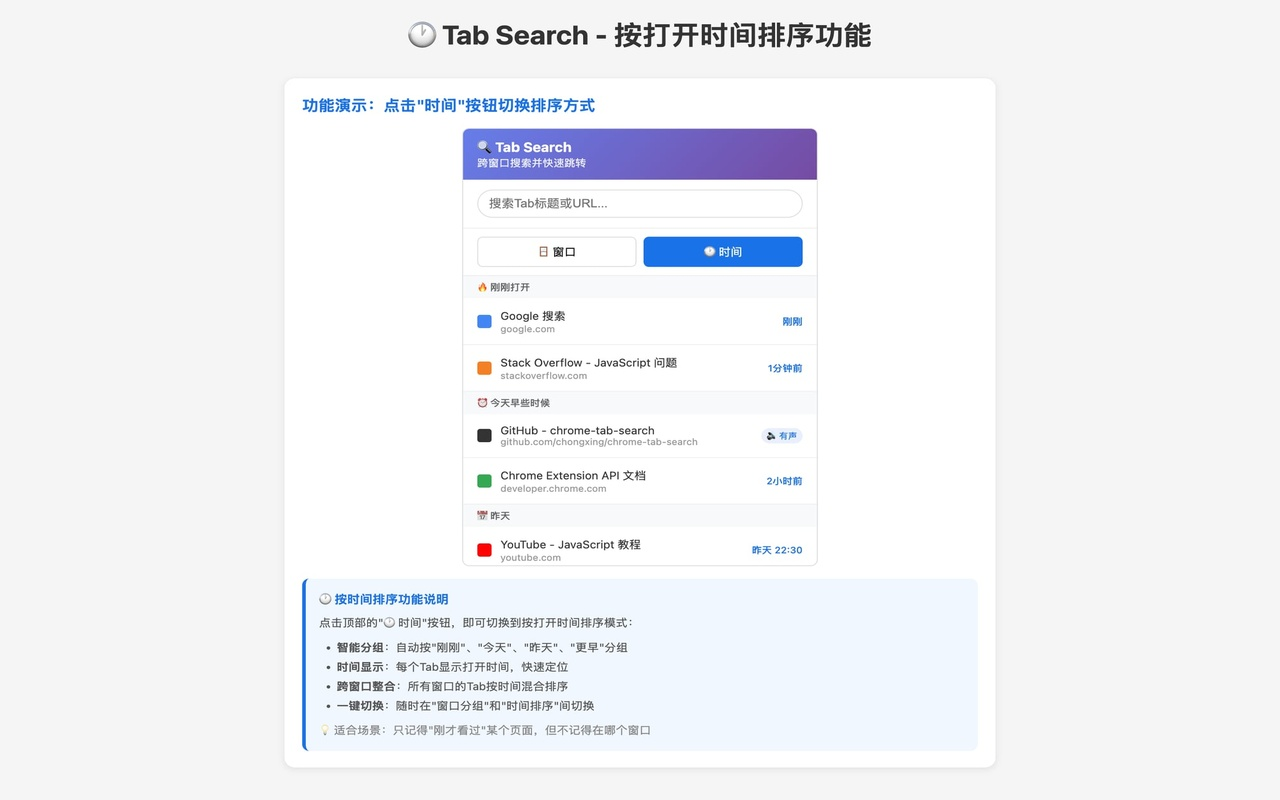
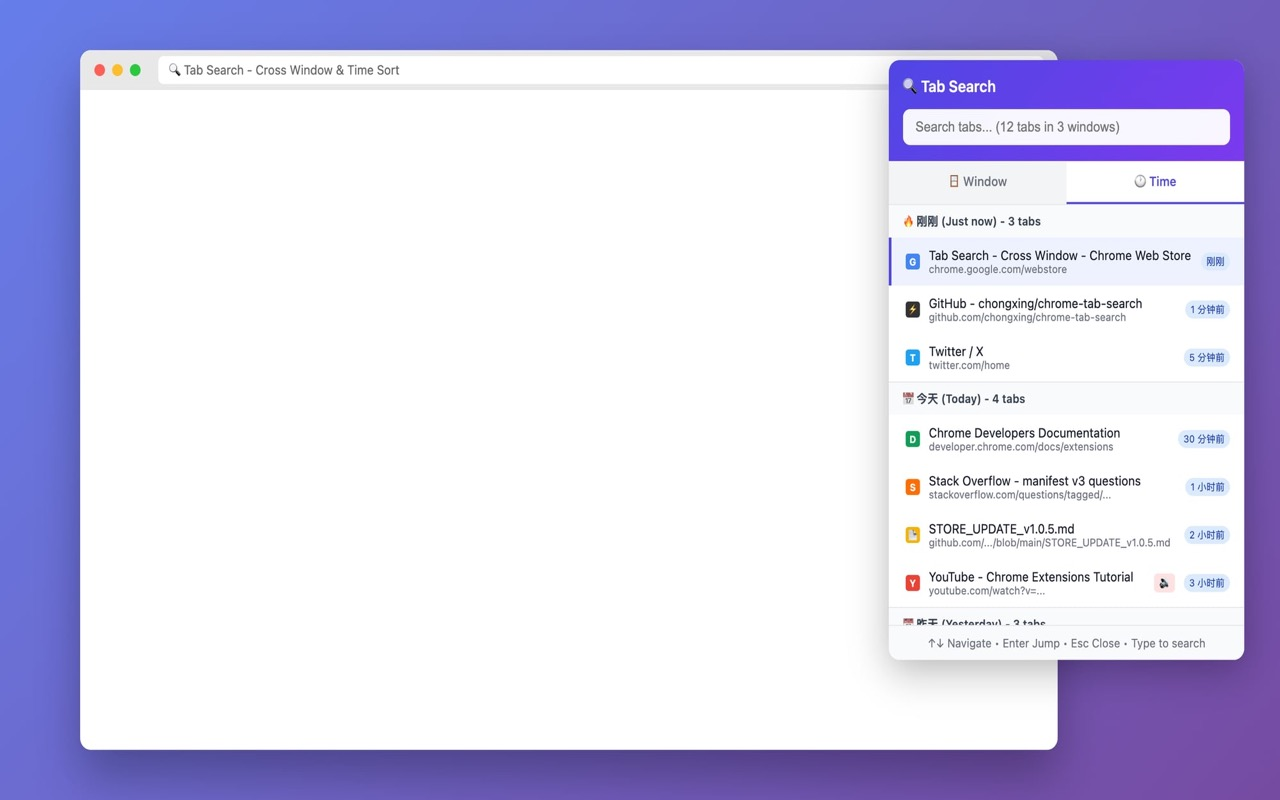
docs: Update README and privacy policy for v1.0.5 release
- README: Update Chrome Web Store status (v1.0.4 live, v1.0.5 pending)
- README: Add v1.0.5 feature preview section
- PRIVACY_POLICY: Update permissions justification (tabs, windows, storage)
- PRIVACY_POLICY: Clarify local storage usage for access time tracking
- Add new screenshots for window mode and time sort mode

diff --git a/README.md b/README.md
@@ -9,7 +9,7 @@
 
 一个轻量级 Chrome 扩展，让你在所有窗口中快速搜索并跳转到指定的 Tab。
 
-![Tab Search 截图](./screenshot-1280x800.jpg)
+![Tab Search 截图](./screenshot-window-mode.jpg)
 
 ## 🕐 按最近访问排序
 
@@ -45,13 +45,13 @@
 
 ### 方式一：Chrome Web Store 安装（推荐）
 
-> ⏳ **审核中**：v1.0.5 已提交 Chrome Web Store，正在等待审核通过
+✅ **v1.0.4 已上线**：[Chrome Web Store - Tab Search](https://chromewebstore.google.com/detail/anegolpfjipjfddbddlmfblpdbiianka?utm_source=item-share-cb)
 
-1. 访问 [Chrome Web Store - Tab Search](https://chrome.google.com/webstore/detail/tab-search-cross-window/anegolpfjipjfddbddlmfblpdbiianka)
-2. 审核通过后点击「**添加至 Chrome**」
+1. 点击上方链接访问 Chrome Web Store
+2. 点击「**添加至 Chrome**」安装
 3. 安装完成后，建议点击工具栏的 📌 图标将扩展固定
 
-> 💡 审核期间可先使用「方式二」下载安装体验
+⏳ **v1.0.5 审核中**：新增基于 Tab 访问时间的排序功能，正在等待 Chrome Web Store 审核通过
 
 ### 方式二：下载安装
 
@@ -118,11 +118,15 @@ chrome-tab-search/
 
 ## 🌐 Chrome Web Store
 
-⏳ **审核中**：[Tab Search - Cross Window](https://chrome.google.com/webstore/detail/tab-search-cross-window/anegolpfjipjfddbddlmfblpdbiianka)
+| 版本 | 状态 | 链接 |
+|------|------|------|
+| **v1.0.4** | ✅ 已上线 | [Chrome Web Store](https://chromewebstore.google.com/detail/anegolpfjipjfddbddlmfblpdbiianka?utm_source=item-share-cb) |
+| **v1.0.5** | ⏳ 审核中 | 基于 Tab 访问时间排序功能 |
 
-- 版本：v1.0.5（已提交审核）
-- 新增按最近访问时间排序功能
-- 当前状态：等待 Chrome Web Store 审核通过
+### v1.0.5 新功能预览
+- 🕐 **按最后访问时间排序** - 自动记录并排序你查看过的 Tab
+- 🔥 **智能时间分组** - "刚刚"、"今天"、"昨天"、"更早"
+- 🌐 **跨窗口时间整合** - 所有窗口的 Tab 按访问时间混合排序
 
 ---
 
@@ -135,7 +139,7 @@ chrome-tab-search/
 > ✨ 跨窗口搜索所有 Tab，快捷键秒开秒找  
 > 🎯 一键跳转，效率翻倍！
 > 
-> 📥 Chrome Web Store：https://chrome.google.com/webstore/detail/tab-search-cross-window/anegolpfjipjfddbddlmfblpdbiianka  
+> 📥 Chrome Web Store：https://chromewebstore.google.com/detail/anegolpfjipjfddbddlmfblpdbiianka  
 > 💻 GitHub：https://github.com/chongxing/chrome-tab-search
 
 ---
@@ -154,4 +158,4 @@ MIT License © [chongxing](https://github.com/chongxing)
 
 Made with ❤ for multi-window users
 
-<!-- Updated: 2026-03-15 -->
+<!-- Updated: 2026-03-17 -->

diff --git a/PRIVACY_POLICY.md b/PRIVACY_POLICY.md
@@ -1,6 +1,6 @@
 # Privacy Policy for Tab Search - Cross Window
 
-**Last Updated:** March 7, 2025
+**Last Updated:** March 17, 2025
 
 ## Overview
 
@@ -38,9 +38,10 @@ The tab information is used solely for:
 
 ## Data Storage
 
-- **No Persistent Storage**: We do not store any data permanently
+- **Local Storage Only**: Tab access times are stored locally using `chrome.storage.local` for the time-based sorting feature
 - **No Cloud Sync**: Your tab information never leaves your browser
-- **Session-Only**: Data exists only while the extension popup is open
+- **No Permanent History**: We only track the last access time of currently open tabs, not your browsing history
+- **Data Removal**: Access time data is removed when tabs are closed
 
 ## Data Sharing
 
@@ -48,8 +49,9 @@ We do **NOT** share, sell, or transfer any data to third parties.
 
 ## Permissions Justification
 
-- **`tabs`**: Required to list and switch between open tabs
-- **`activeTab`**: Required to identify the current window for sorting
+- **`tabs`**: Required to list and switch between open tabs, read tab titles/URLs for search
+- **`windows`**: Required to group tabs by window and switch between windows when jumping to a tab
+- **`storage`**: Required to store tab last access times for the time-based sorting feature
 
 ## Changes to This Policy
 
@@ -68,4 +70,4 @@ This extension complies with:
 
 ---
 
-**Summary**: Your data stays on your device. We don't collect it, we don't store it, we don't share it.
+**Summary**: Tab access times are stored locally on your device for the time-based sorting feature. No data is transmitted to external servers or shared with third parties.
